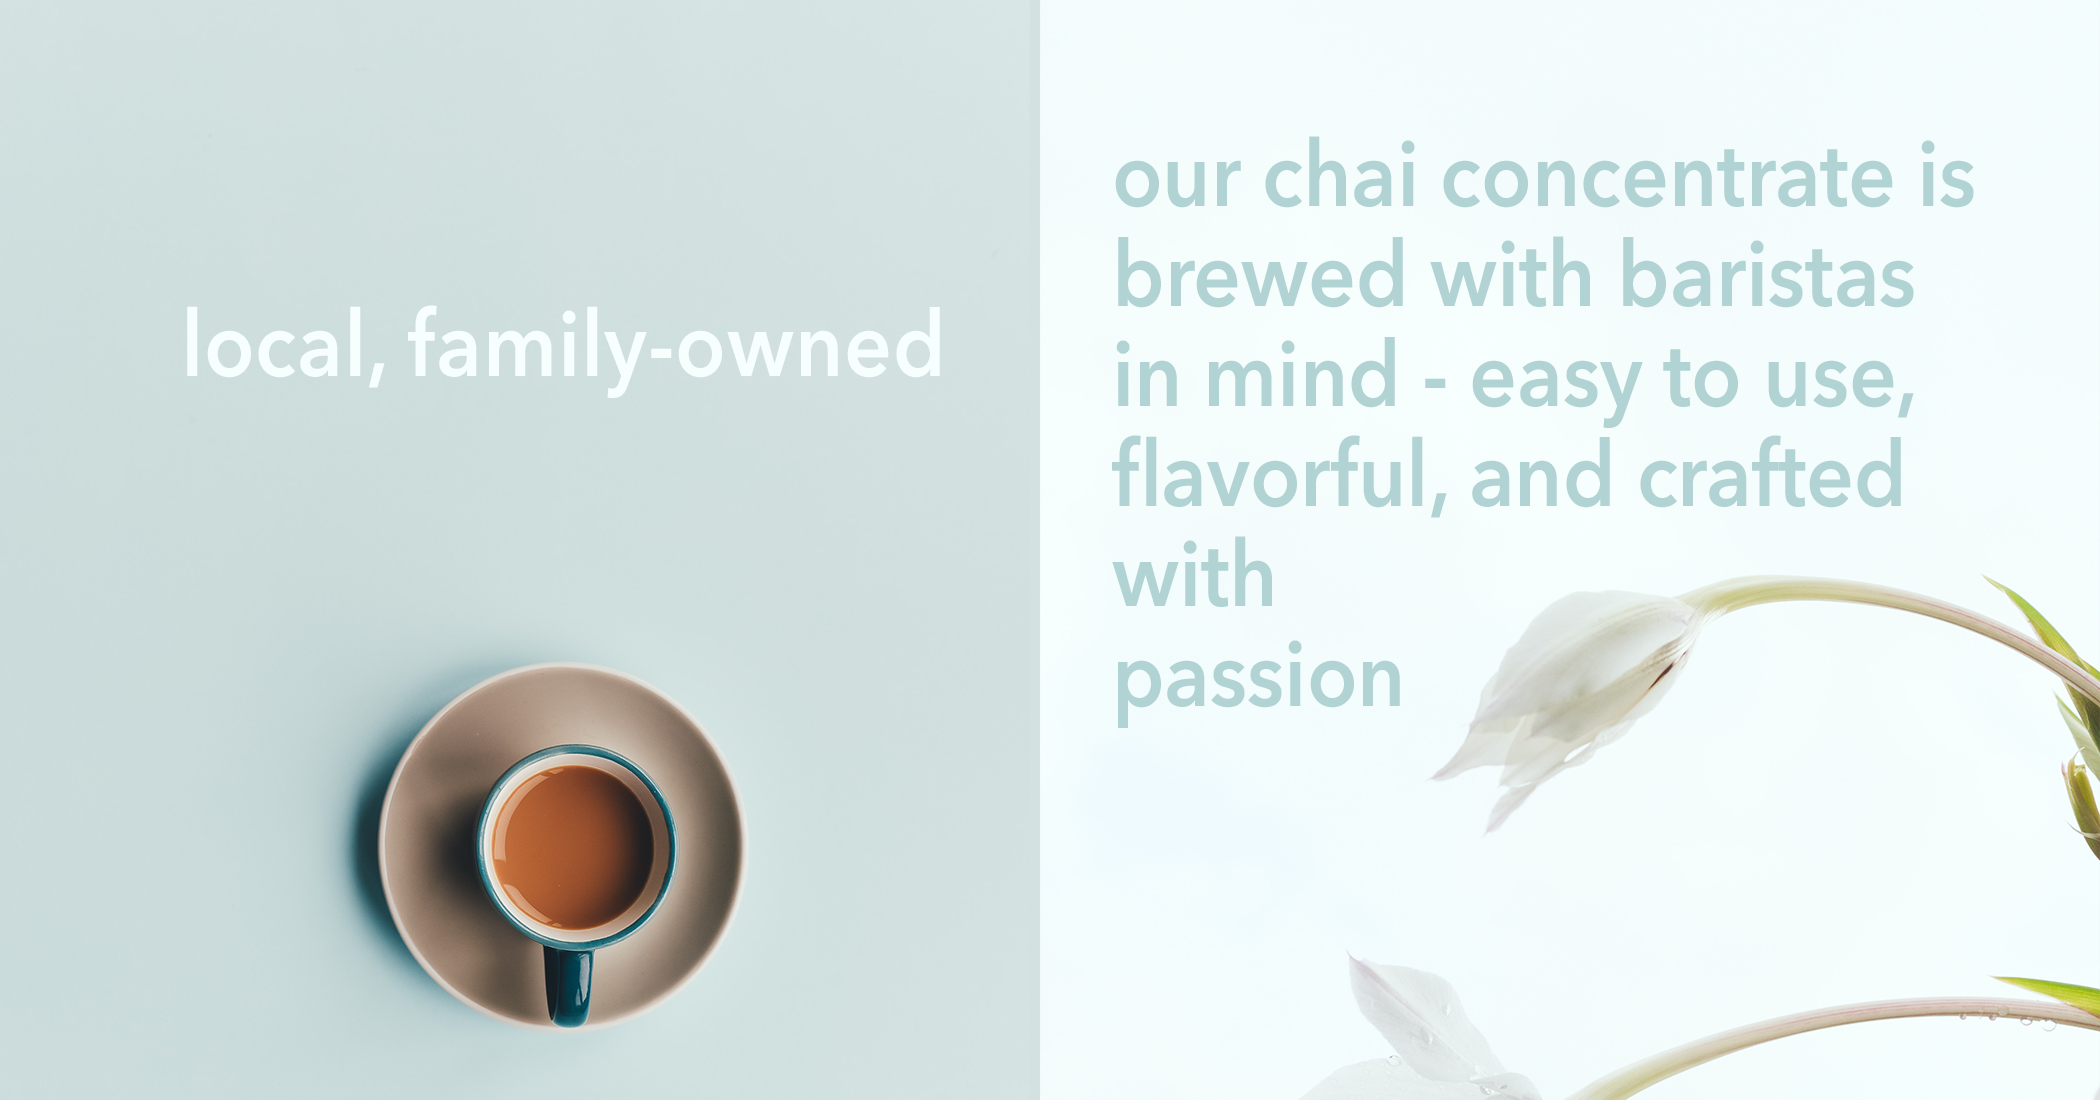
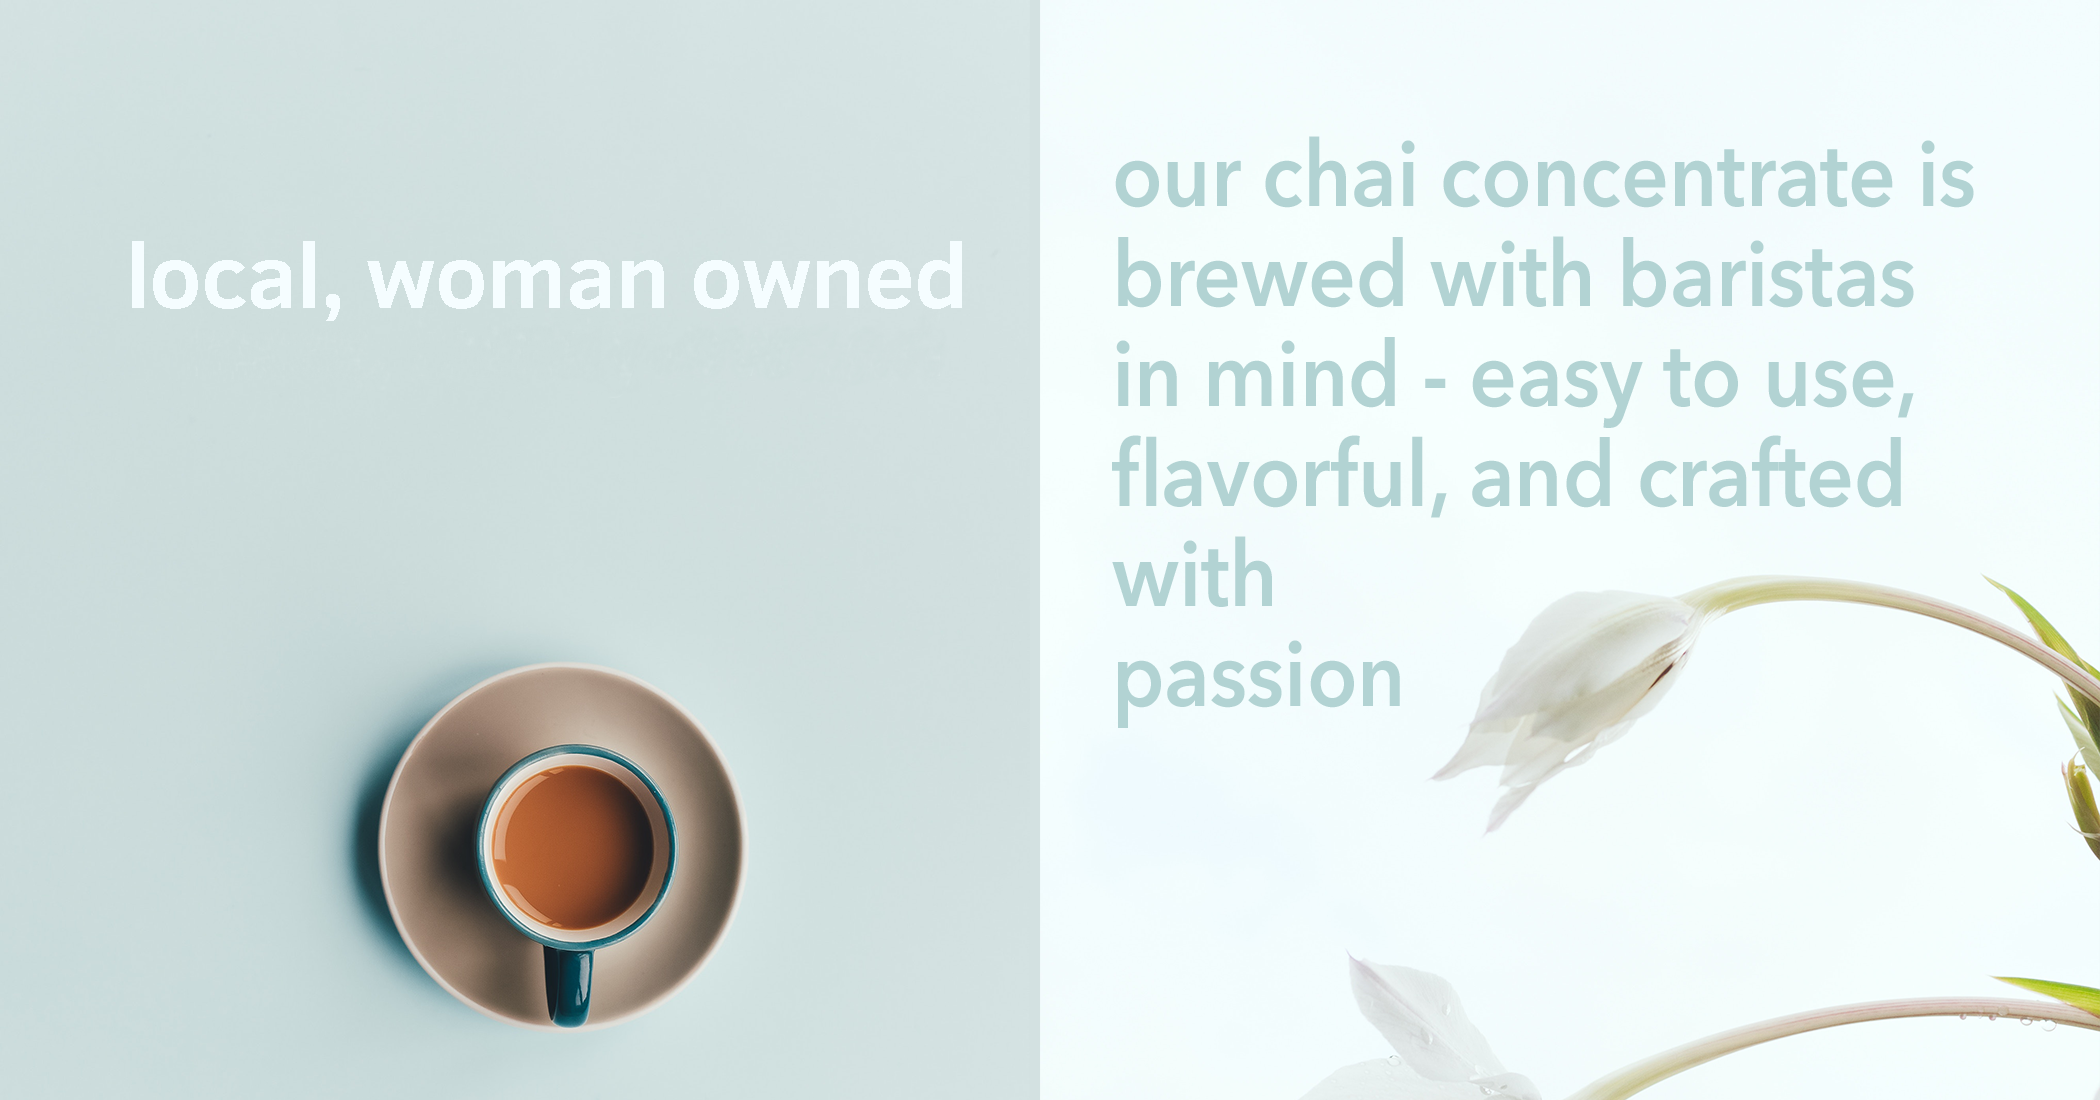
commit order + local woman

Changed region(s): [[0.0619, 0.2164, 0.4643, 0.3709]]

diff --git a/fs.html b/fs.html
@@ -13,94 +13,10 @@ layout: index
 						<a href="/shop.html" class="more scrolly">Learn More</a>
 					</section>
 
-
-					<div class="12u"><span class="image fit" style="margin: 0"><img src="images/local.png" alt="" /></span></div>
 					<div class="12u"><span class="image fit" style="margin: 0"><img src="images/commitments.png" alt="" /></span></div>
-				<!-- One -->
-					<!-- <section id="one" class="wrapper style1 special">
-						<div class="inner">
-							<header class="major">
-								<h2>Arcu aliquet vel lobortis ata nisl<br />
-								eget augue amet aliquet nisl cep donec</h2>
-								<p>Aliquam ut ex ut augue consectetur interdum. Donec amet imperdiet eleifend<br />
-								fringilla tincidunt. Nullam dui leo Aenean mi ligula, rhoncus ullamcorper.</p>
-							</header>
-							<ul class="icons major">
-								<li><span class="icon fa-diamond major style1"><span class="label">Lorem</span></span></li>
-								<li><span class="icon fa-heart-o major style2"><span class="label">Ipsum</span></span></li>
-								<li><span class="icon fa-code major style3"><span class="label">Dolor</span></span></li>
-							</ul>
-						</div>
-					</section> -->
-
-				<!-- Two -->
-					<!-- <section id="two" class="wrapper alt style2">
-						<section class="spotlight">
-							<div class="image"><img src="images/pic01.jpg" alt="" /></div><div class="content">
-								<h2>Magna primis lobortis<br />
-								sed ullamcorper</h2>
-								<p>Aliquam ut ex ut augue consectetur interdum. Donec hendrerit imperdiet. Mauris eleifend fringilla nullam aenean mi ligula.</p>
-							</div>
-						</section>
-						<section class="spotlight">
-							<div class="image"><img src="images/pic02.jpg" alt="" /></div><div class="content">
-								<h2>Tortor dolore feugiat<br />
-								elementum magna</h2>
-								<p>Aliquam ut ex ut augue consectetur interdum. Donec hendrerit imperdiet. Mauris eleifend fringilla nullam aenean mi ligula.</p>
-							</div>
-						</section>
-						<section class="spotlight">
-							<div class="image"><img src="images/pic03.jpg" alt="" /></div><div class="content">
-								<h2>Augue eleifend aliquet<br />
-								sed condimentum</h2>
-								<p>Aliquam ut ex ut augue consectetur interdum. Donec hendrerit imperdiet. Mauris eleifend fringilla nullam aenean mi ligula.</p>
-							</div>
-						</section>
-					</section> -->
-
-				<!-- Three -->
-					<!-- <section id="one" class="wrapper style3 special">
-						<div class="inner">
-							<header class="major">
-								<h2>Brewed with Premium Spices</h2>
-								<p>Every batch is brewed with high quality spices that provide a flavor pack cup of tea.<br />
-								Bringing the cooking skills of a chai wallah straight to your home.</p>
-							</header>
-							<ul class="features">
-								<li class="icon vanilla">
-									<img src="images/icons/vanilla.png" size="fit"/>
-									<h3>Vanilla</h3>
-									<p>Like all fruits, vanilla begins with a flower: A single flower that opens up on only one day every year, and if you fail to pollinate it, that's it. No vanilla bean. As such, growers must inspect their plantations daily for any open flowers, a labor-intensive task. Did you know? after saffron, vanilla is the second most expensive spice in the world!</p>
-										<br><p>Regarded as one of the world's most popular aroma and flavors. Its origin can be traced back thousands of years and is now widely used in foods and beverages. Although it is native to Mexico, it is now widely grown throughout the tropics. Indonesia and Madagascar are the world's largest producers.</p>
-								</li>
-								<li class="icon fa-laptop">
-									<h3>Cardamom</h3>
-									<p>Cardamom, native to India and other surrounding areas, is a spice like no other. This complex ingredient is most commonly used in Indian cuisine, and brewing a nice batch of chai. The flavor profile of cardamom varies among each person who consumes it. Notes of citrus, spice, and herbal undertones are common regards of cardamom.</p>
-										<br><p>It can be used for almost any cooking and baking experience imaginable. From desserts to tandoori chicken, cardamom will be your best friend, and gateway to a whole new level of flavor.</p>
-								</li>
-								<li class="icon fa-code">
-									<h3>Cinnamon</h3>
-									<p>The beauty of cinnamon is its ability to shapeshift into both sweet and savory delights. It is a spice that has both rich history and a familiar place in the homes of everyone. At one point, Cinnamon was so highly esteemed among ancient nations that it was regarded as a gift fit for monarchs and deities. In today’s world, it is one of the most widely used spices.</p>
-										<br><p>Cinnamon is as flavorful as it is aromatic. Full of complex sweet and spicy undertones, and a wood-like golden brown color, cinnamon can also be used to garnish drinks and goods. The possibilities are endless with this spice.</p>
-								</li>
-								<li class="icon fa-headphones">
-									<h3>Cloves</h3>
-									<p>Clove is naturally an evergreen tree that can grow up to 12 m tall, and has large leaves and crimson flowers grouped in terminal clusters. The cloves we are familiar with in day-to-day cooking, are the flowers harvested at 1.5–2.0 cm long, and come to a ball shape at the very end.</p>
-										<br><p>Cloves have one of the most unique flavors out there. The taste is pungent, strong and sweet with a bitter, astringent undertone. Cloves also have a distinct warm characteristic that can be almost a feeling of heat, and cause a tingling sensation on the tongue.</p>
-								</li>
-								<li class="icon fa-heart-o">
-									<h3>Anise</h3>
-									<p>Anise, a very distinct and flavorful spice, was originally cultivated in the Middle East and Egypt, and was brought to Europe for its medicinal benefits. The spice has historically been used as a digestive aid, a menstrual cramp reliever, and an antiseptic.</p>
-										<br><p>The best flavor association for anise is black licorice and fennel. This characteristic makes the spice a great additive for baking and candy making. It is also a common ingredient in alcohols and liqueurs.</p>
-								</li>
-								<li class="icon fa-flag-o">
-									<h3>Ginger</h3>
-									<p>Ginger provides a mildly spicy kick to any dish or drink when used in a large enough quantity. It was originally cultivated in Southeast Asia, and was transported to Europe during the spice trade.</p>
-										<br><p>Aside from its unique and bold flavor, ginger also has unbelievable health properties. From relieving nausea, improving loss of appetite, motion sickness, and overall aches and pains, consuming ginger daily is a great healthy addition.</p>
-								</li>
-							</ul>
-						</div>
-					</section> -->
+					<div class="12u"><span class="image fit" style="margin: 0"><img src="images/local.png" alt="" /></span></div>
+					
+				
 
 				<!-- CTA -->
 					<section id="cta" class="wrapper style4">

diff --git a/home.html b/home.html
@@ -13,94 +13,10 @@ layout: index
 						<a href="/shop.html" class="more scrolly">Learn More</a>
 					</section>
 
-
-					<div class="12u"><span class="image fit" style="margin: 0"><img src="images/local.png" alt="" /></span></div>
 					<div class="12u"><span class="image fit" style="margin: 0"><img src="images/commitments.png" alt="" /></span></div>
-				<!-- One -->
-					<!-- <section id="one" class="wrapper style1 special">
-						<div class="inner">
-							<header class="major">
-								<h2>Arcu aliquet vel lobortis ata nisl<br />
-								eget augue amet aliquet nisl cep donec</h2>
-								<p>Aliquam ut ex ut augue consectetur interdum. Donec amet imperdiet eleifend<br />
-								fringilla tincidunt. Nullam dui leo Aenean mi ligula, rhoncus ullamcorper.</p>
-							</header>
-							<ul class="icons major">
-								<li><span class="icon fa-diamond major style1"><span class="label">Lorem</span></span></li>
-								<li><span class="icon fa-heart-o major style2"><span class="label">Ipsum</span></span></li>
-								<li><span class="icon fa-code major style3"><span class="label">Dolor</span></span></li>
-							</ul>
-						</div>
-					</section> -->
-
-				<!-- Two -->
-					<!-- <section id="two" class="wrapper alt style2">
-						<section class="spotlight">
-							<div class="image"><img src="images/pic01.jpg" alt="" /></div><div class="content">
-								<h2>Magna primis lobortis<br />
-								sed ullamcorper</h2>
-								<p>Aliquam ut ex ut augue consectetur interdum. Donec hendrerit imperdiet. Mauris eleifend fringilla nullam aenean mi ligula.</p>
-							</div>
-						</section>
-						<section class="spotlight">
-							<div class="image"><img src="images/pic02.jpg" alt="" /></div><div class="content">
-								<h2>Tortor dolore feugiat<br />
-								elementum magna</h2>
-								<p>Aliquam ut ex ut augue consectetur interdum. Donec hendrerit imperdiet. Mauris eleifend fringilla nullam aenean mi ligula.</p>
-							</div>
-						</section>
-						<section class="spotlight">
-							<div class="image"><img src="images/pic03.jpg" alt="" /></div><div class="content">
-								<h2>Augue eleifend aliquet<br />
-								sed condimentum</h2>
-								<p>Aliquam ut ex ut augue consectetur interdum. Donec hendrerit imperdiet. Mauris eleifend fringilla nullam aenean mi ligula.</p>
-							</div>
-						</section>
-					</section> -->
-
-				<!-- Three -->
-					<!-- <section id="one" class="wrapper style3 special">
-						<div class="inner">
-							<header class="major">
-								<h2>Brewed with Premium Spices</h2>
-								<p>Every batch is brewed with high quality spices that provide a flavor pack cup of tea.<br />
-								Bringing the cooking skills of a chai wallah straight to your home.</p>
-							</header>
-							<ul class="features">
-								<li class="icon vanilla">
-									<img src="images/icons/vanilla.png" size="fit"/>
-									<h3>Vanilla</h3>
-									<p>Like all fruits, vanilla begins with a flower: A single flower that opens up on only one day every year, and if you fail to pollinate it, that's it. No vanilla bean. As such, growers must inspect their plantations daily for any open flowers, a labor-intensive task. Did you know? after saffron, vanilla is the second most expensive spice in the world!</p>
-										<br><p>Regarded as one of the world's most popular aroma and flavors. Its origin can be traced back thousands of years and is now widely used in foods and beverages. Although it is native to Mexico, it is now widely grown throughout the tropics. Indonesia and Madagascar are the world's largest producers.</p>
-								</li>
-								<li class="icon fa-laptop">
-									<h3>Cardamom</h3>
-									<p>Cardamom, native to India and other surrounding areas, is a spice like no other. This complex ingredient is most commonly used in Indian cuisine, and brewing a nice batch of chai. The flavor profile of cardamom varies among each person who consumes it. Notes of citrus, spice, and herbal undertones are common regards of cardamom.</p>
-										<br><p>It can be used for almost any cooking and baking experience imaginable. From desserts to tandoori chicken, cardamom will be your best friend, and gateway to a whole new level of flavor.</p>
-								</li>
-								<li class="icon fa-code">
-									<h3>Cinnamon</h3>
-									<p>The beauty of cinnamon is its ability to shapeshift into both sweet and savory delights. It is a spice that has both rich history and a familiar place in the homes of everyone. At one point, Cinnamon was so highly esteemed among ancient nations that it was regarded as a gift fit for monarchs and deities. In today’s world, it is one of the most widely used spices.</p>
-										<br><p>Cinnamon is as flavorful as it is aromatic. Full of complex sweet and spicy undertones, and a wood-like golden brown color, cinnamon can also be used to garnish drinks and goods. The possibilities are endless with this spice.</p>
-								</li>
-								<li class="icon fa-headphones">
-									<h3>Cloves</h3>
-									<p>Clove is naturally an evergreen tree that can grow up to 12 m tall, and has large leaves and crimson flowers grouped in terminal clusters. The cloves we are familiar with in day-to-day cooking, are the flowers harvested at 1.5–2.0 cm long, and come to a ball shape at the very end.</p>
-										<br><p>Cloves have one of the most unique flavors out there. The taste is pungent, strong and sweet with a bitter, astringent undertone. Cloves also have a distinct warm characteristic that can be almost a feeling of heat, and cause a tingling sensation on the tongue.</p>
-								</li>
-								<li class="icon fa-heart-o">
-									<h3>Anise</h3>
-									<p>Anise, a very distinct and flavorful spice, was originally cultivated in the Middle East and Egypt, and was brought to Europe for its medicinal benefits. The spice has historically been used as a digestive aid, a menstrual cramp reliever, and an antiseptic.</p>
-										<br><p>The best flavor association for anise is black licorice and fennel. This characteristic makes the spice a great additive for baking and candy making. It is also a common ingredient in alcohols and liqueurs.</p>
-								</li>
-								<li class="icon fa-flag-o">
-									<h3>Ginger</h3>
-									<p>Ginger provides a mildly spicy kick to any dish or drink when used in a large enough quantity. It was originally cultivated in Southeast Asia, and was transported to Europe during the spice trade.</p>
-										<br><p>Aside from its unique and bold flavor, ginger also has unbelievable health properties. From relieving nausea, improving loss of appetite, motion sickness, and overall aches and pains, consuming ginger daily is a great healthy addition.</p>
-								</li>
-							</ul>
-						</div>
-					</section> -->
+					<div class="12u"><span class="image fit" style="margin: 0"><img src="images/local.png" alt="" /></span></div>
+					
+				
 
 				<!-- CTA -->
 					<section id="cta" class="wrapper style4">
